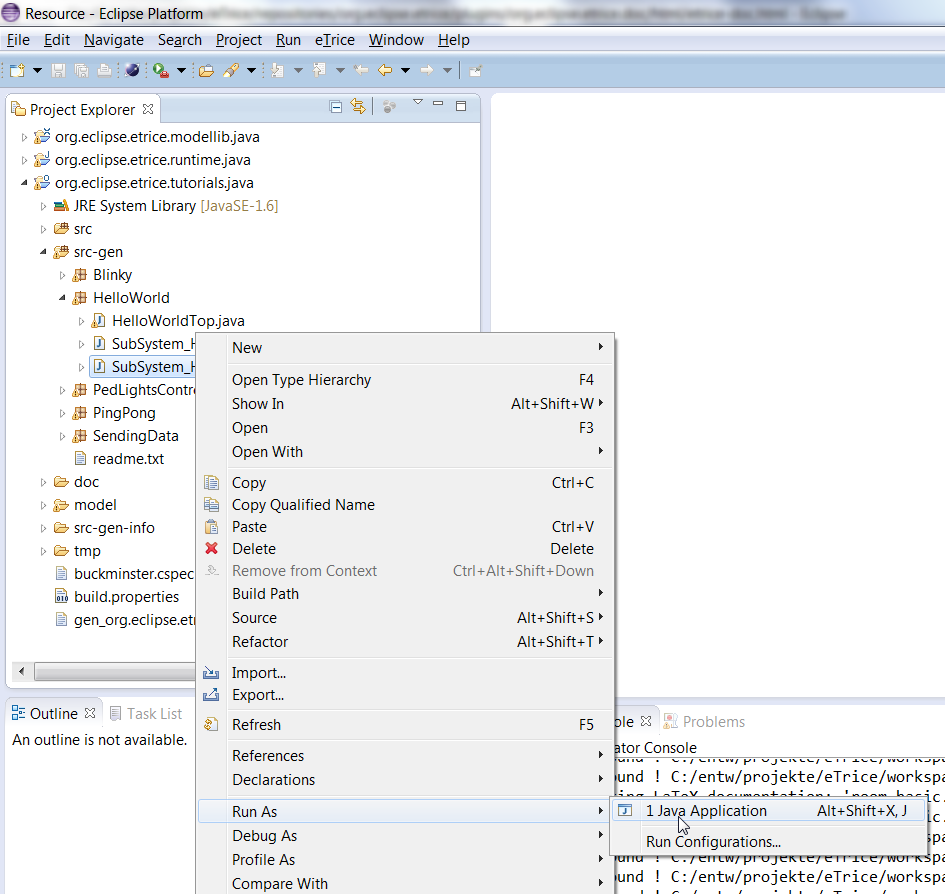
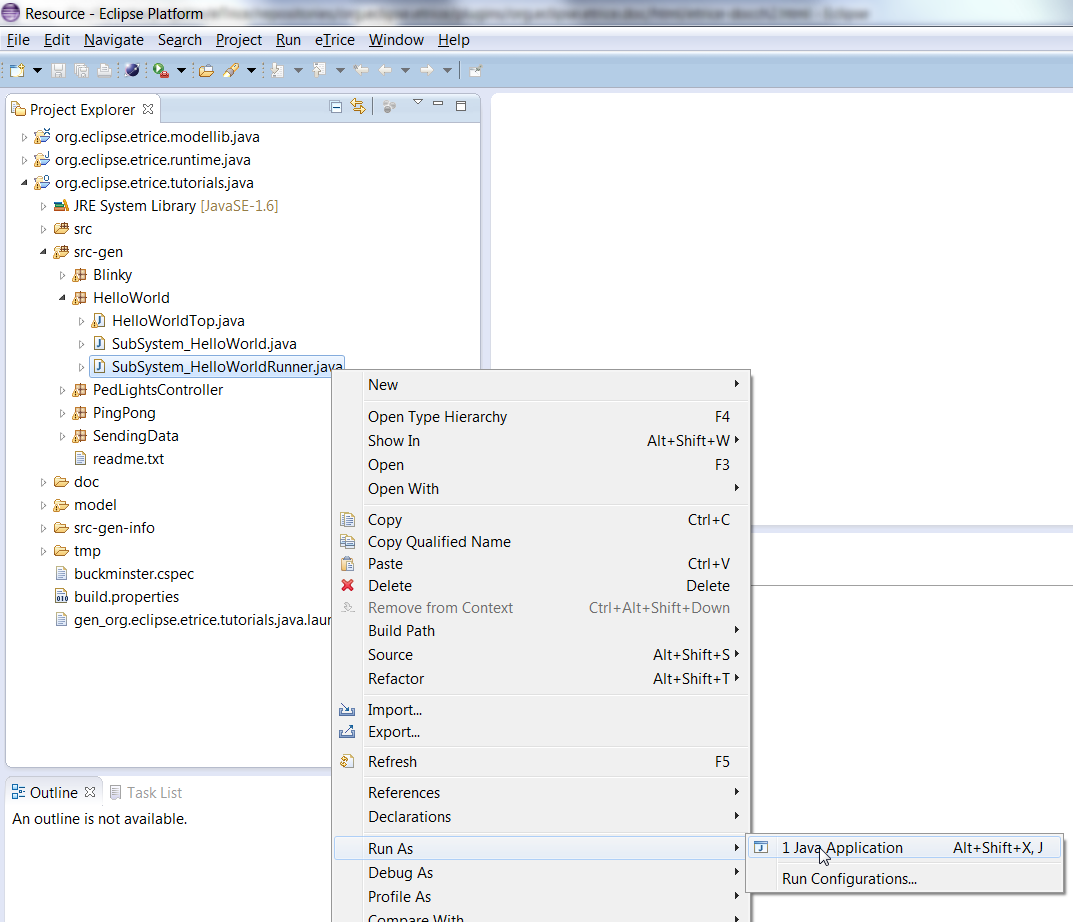
[doc] continued to update and merge tutorials for java and C

Changed region(s): [[0.0, 0.0, 1.0, 1.0], [0.5831, 0.5134, 0.6138, 0.5436]]

diff --git a/plugins/org.eclipse.etrice.doc/doc/013-setting-up-the-workspace-for-java.tex b/plugins/org.eclipse.etrice.doc/doc/013-setting-up-the-workspace-for-java.tex
@@ -7,7 +7,7 @@ After installation of eclipse and the \eTrice{} plug in, your workspace should l
 
 Just the \textit{\eTrice{}} menu item is visible of the installed \eTrice{} plugins.
 
-Select the menu \textbf{File->New->Other}
+Select the menu \emph{File->New->Other}
 
 \includegraphics[width=0.8\textwidth]{images/013-SetupWorkspace02.png}
 % !images/013-SetupWorkspace02.png!
@@ -30,7 +30,7 @@ Now workspace is set up and you can perform the tutorials or start with your wor
 
 The tutorial models are available in the \textit{org.eclipse.etrice.tutorials.java} project. All tutorials are 
 ready to generate and run without any changes. To start the code generator simply run 
-\textbf{gen\_org.eclipse.etrice.tutorials.java.launch} as \textbf{gen\_org.eclipse.etrice.tutorials.java}: 
+\emph{gen\_org.eclipse.etrice.tutorials.java.launch} as \emph{gen\_org.eclipse.etrice.tutorials.java}: 
 
 \includegraphics[width=0.8\textwidth]{images/013-SetupWorkspace05.png}
 % !images/013-SetupWorkspace05.png!
@@ -42,12 +42,13 @@ The successful generation ends with \emph{Info: -- finished code generation} in 
 
 
 For each tutorial in the folder src-gen a java package is generated including a java file called 
-\textbf{SubSystem\_<Modelname>Runner.java} . To run the a generated application simply run this file as a java application:
+\emph{SubSystem\_<Modelname>Runner.java} . To run the a generated application simply run this file as a java application.
+Try this with the file \emph{src-gen/HelloWorld/SubSystem_HelloWorldRunner.java} :
 
 \includegraphics[width=0.8\textwidth]{images/013-SetupWorkspace06.png}
 % !images/013-SetupWorkspace06.png!
 
-To stop the application type \textit{quit} in the console window.
+To stop the application type \emph{quit} in the console window.
  
 \includegraphics[width=0.8\textwidth]{images/013-SetupWorkspace07.png} 
 % !images/013-SetupWorkspace07.png!

diff --git a/plugins/org.eclipse.etrice.doc/doc/014-setting-up-the-workspace-for-C.tex b/plugins/org.eclipse.etrice.doc/doc/014-setting-up-the-workspace-for-C.tex
@@ -1,0 +1,2 @@
+\section{Setting up the Workspace for C Projects}
+
